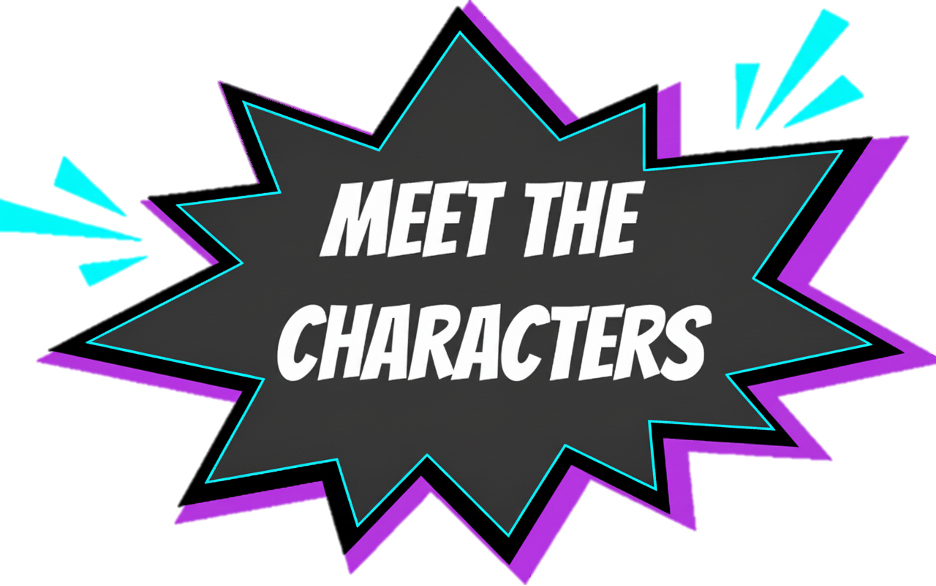
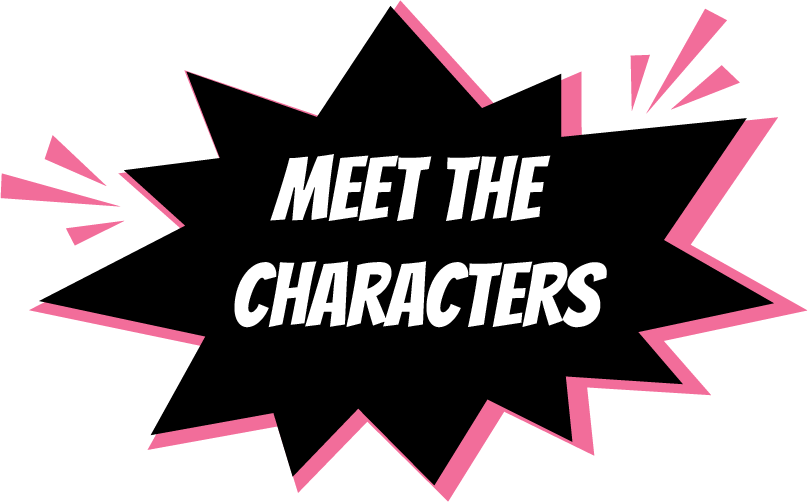
feat: adds animations and most dark mode buttons

diff --git a/src/components/Reader.vue b/src/components/Reader.vue
@@ -1,47 +1,29 @@
 <template>
-    <v-dialog v-model="dialog" @update-modelValue="(n: any) => dialog = n" fullscreen scrim="rgba(0, 0, 0, 0.8)" opacity="90">
-        <div 
-            class="dialog-content"
-            @mousemove="handleMouseMove"
-            @mouseleave="handleMouseLeave"
-        >
+    <v-dialog v-model="dialog" @update-modelValue="(n: any) => dialog = n" fullscreen scrim="rgba(0, 0, 0, 0.8)"
+        opacity="90">
+        <div class="dialog-content" @mousemove="handleMouseMove" @mouseleave="handleMouseLeave">
             <div class="d-flex justify-end">
-                <img 
-                    src="@/assets/Close Icon.png"
-                    class="close-button"
-                    :class="{ 'hidden': !showControls }"
-                    @click="dialog = false" 
-                />
+                <img v-if="theme.global.name.value == 'light'" src="@/assets/Close Icon.png" class="close-button" :class="{ 'hidden': !showControls }"
+                    @click="dialog = false" />
+                <img v-if="theme.global.name.value == 'dark'" src="@/assets/dark/Close Icon.png" class="close-button" :class="{ 'hidden': !showControls }"
+                    @click="dialog = false" />
             </div>
-            
+
             <!-- Move buttons outside carousel -->
-            <img 
-                v-if="currentSlide > 0"
-                src="@/assets/PrevButton.png" 
-                class="nav-button prev-button" 
-                :class="{ 'hidden': !showControls, 'visible': showControls }"
-                width="100" 
-                height="100"
-                @click="previousSlide" 
-            />
-            <img 
-                v-if="currentSlide < imageFiles.length - 1"
-                src="@/assets/NextButton.png" 
-                class="nav-button next-button" 
-                :class="{ 'hidden': !showControls, 'visible': showControls }"
-                width="100" 
-                height="100"
-                @click="nextSlide" 
-            />
-                
-            <v-carousel 
-                v-model="currentSlide"
-                height="auto" 
-                class="carousel" 
-                hide-delimiter-background 
-                hide-delimiters
-                :show-arrows="false"
-            >
+            <img v-if="currentSlide > 0 && theme.global.name.value === 'light'" src="@/assets/PrevButton.png"
+                class="nav-button prev-button" :class="{ 'hidden': !showControls, 'visible': showControls }" width="100"
+                height="100" @click="previousSlide" />
+            <img v-if="currentSlide > 0 && theme.global.name.value === 'dark'" src="@/assets/dark/PrevButton.png"
+                class="nav-button prev-button" :class="{ 'hidden': !showControls, 'visible': showControls }" width="85"
+                height="60" @click="previousSlide" />
+            <img v-if="currentSlide < imageFiles.length - 1 && theme.global.name.value == 'light'" src="@/assets/NextButton.png"
+                class="nav-button next-button" :class="{ 'hidden': !showControls, 'visible': showControls }" width="100"
+                height="100" @click="nextSlide" />
+            <img v-if="currentSlide < imageFiles.length - 1 && theme.global.name.value == 'dark'" src="@/assets/dark/NextButton.png"
+                class="nav-button next-button" :class="{ 'hidden': !showControls, 'visible': showControls }" width="85"
+                height="60" @click="nextSlide" />
+            <v-carousel v-model="currentSlide" height="auto" class="carousel" hide-delimiter-background hide-delimiters
+                :show-arrows="false">
                 <v-carousel-item v-for="image of imageFiles" :key="image">
                     <v-img :src="image" class="carousel-image" cover />
                 </v-carousel-item>
@@ -52,7 +34,9 @@
 
 <script setup lang="ts">
 import { ref, onMounted, onUnmounted } from 'vue'
+import { useTheme } from 'vuetify'
 
+const theme = useTheme()
 const dialog = defineModel('dialog', {
     type: Boolean,
     required: true
@@ -83,12 +67,12 @@ const previousSlide = () => {
 
 const showControlsTemporarily = () => {
     showControls.value = true
-    
+
     // Clear existing timeout
     if (hideTimeout) {
         clearTimeout(hideTimeout)
     }
-    
+
     // Set new timeout to hide controls after 2 seconds
     hideTimeout = setTimeout(() => {
         showControls.value = false
@@ -144,7 +128,7 @@ onUnmounted(() => {
     top: 40px;
     right: 40px;
     width: 100px;
-    height: 100px;
+    height: 80px;
     z-index: 2;
     cursor: pointer;
     transition: opacity 0.3s ease-in-out;
@@ -177,12 +161,14 @@ onUnmounted(() => {
 .prev-button.hidden {
     opacity: 0 !important;
     pointer-events: none;
-    transform: translateY(-50%) translateX(-120px) !important; /* Slide out to the left */
+    transform: translateY(-50%) translateX(-120px) !important;
+    /* Slide out to the left */
 }
 
 .prev-button.visible {
     opacity: 1;
-    transform: translateY(-50%) translateX(0) !important; /* Slide in from the left */
+    transform: translateY(-50%) translateX(0) !important;
+    /* Slide in from the left */
 }
 
 .next-button {
@@ -192,11 +178,13 @@ onUnmounted(() => {
 .next-button.hidden {
     opacity: 0 !important;
     pointer-events: none;
-    transform: translateY(-50%) translateX(120px) !important; /* Slide out to the right */
+    transform: translateY(-50%) translateX(120px) !important;
+    /* Slide out to the right */
 }
 
 .next-button.visible {
     opacity: 1;
-    transform: translateY(-50%) translateX(0) !important; /* Slide in from the right */
+    transform: translateY(-50%) translateX(0) !important;
+    /* Slide in from the right */
 }
 </style>

diff --git a/src/components/Preview.vue b/src/components/Preview.vue
@@ -3,11 +3,14 @@
         opacity="90">
         <div class="dialog-content" @mousemove="handleMouseMove" @mouseleave="handleMouseLeave">
             <div class="d-flex justify-end">
-                <img src="@/assets/Close Icon.png" class="close-button" :class="{ 'hidden': !showControls }"
+                <img v-if="theme.global.name.value == 'light'" src="@/assets/Close Icon.png" class="close-button" :class="{ 'hidden': !showControls }"
+                    @click="dialog = false" />
+                <img v-if="theme.global.name.value == 'dark'" src="@/assets/dark/Close Icon.png" class="close-button" :class="{ 'hidden': !showControls }"
                     @click="dialog = false" />
             </div>
             <v-card width="800" class="mx-auto my-12 pa-7" :elevation="12">
-                <v-card-title class="text-h3 text-center mb-5" style="font-family: 'Bangers';">{{ book.label }}</v-card-title>
+                <v-card-title class="text-h3 text-center mb-5" style="font-family: 'Bangers';">{{ book.label
+                    }}</v-card-title>
                 <div class="d-flex justify-center">
                     <div class="d-flex flex-column justify-center">
                         <img :src="book.cover" class="mb-4" height="400" contain />
@@ -15,8 +18,17 @@
                     <div class="ml-4">
                         <v-card-text class="book-description">{{ book.description }}</v-card-text>
                         <div class="mt-16 button-container">
-                            <img class="img-btn" src="@/assets/ReadTheComicBtn.png" height="130" @click="emits('open-reader')" />
-                            <img class="img-btn" src="@/assets/MeetTheCharactersBtn.png" height="130" @click="emits('open-characters')" />
+                            <img v-if="theme.global.name.value === 'light'" class="img-btn"
+                                src="@/assets/ReadTheComicBtn.png" height="130" @click="emits('open-reader')" />
+                            <img v-if="theme.global.name.value === 'dark'" class="img-btn"
+                                src="@/assets/dark/ReadTheComicBtn.png" height="130" @click="emits('open-reader')" />
+                            <img v-if="theme.global.name.value === 'light'" class="img-btn"
+                                src="@/assets/MeetTheCharactersBtn.png" height="130"
+                                @click="emits('open-characters')" />
+                            <img v-if="theme.global.name.value === 'dark'" class="img-btn"
+                                src="@/assets/dark/MeetTheCharactersBtn.png" height="130"
+                                @click="emits('open-characters')" />
+
                         </div>
                     </div>
                 </div>
@@ -27,6 +39,9 @@
 
 <script setup lang="ts">
 import { ref, onMounted, onUnmounted } from 'vue'
+import { useTheme } from 'vuetify';
+
+const theme = useTheme();
 
 const dialog = defineModel('dialog', {
     type: Boolean,
@@ -110,7 +125,7 @@ onUnmounted(() => {
     top: 40px;
     right: 40px;
     width: 100px;
-    height: 100px;
+    height: 80px;
     z-index: 2;
     cursor: pointer;
     transition: opacity 0.3s ease-in-out;
@@ -124,7 +139,8 @@ onUnmounted(() => {
 
 .img-btn:hover {
     transform: translateY(-4px) scale(1.02);
-    filter: drop-shadow(0 8px 16px rgba(0, 0, 0, 0.3)); /* Shadow follows SVG shape */
+    filter: drop-shadow(0 8px 16px rgba(0, 0, 0, 0.3));
+    /* Shadow follows SVG shape */
 }
 
 .close-button.hidden {

diff --git a/src/components/MeetCharacters.vue b/src/components/MeetCharacters.vue
@@ -3,17 +3,25 @@
         opacity="90">
         <div class="dialog-content" @mousemove="handleMouseMove" @mouseleave="handleMouseLeave">
             <div class="d-flex justify-end">
-                <img src="@/assets/Close Icon.png" class="close-button" :class="{ 'hidden': !showControls }"
+                <img v-if="theme.global.name.value == 'light'" src="@/assets/Close Icon.png" class="close-button" :class="{ 'hidden': !showControls }"
+                    @click="dialog = false" />
+                <img v-if="theme.global.name.value == 'dark'" src="@/assets/dark/Close Icon.png" class="close-button" :class="{ 'hidden': !showControls }"
                     @click="dialog = false" />
             </div>
 
             <!-- Move buttons outside carousel -->
-            <img v-if="currentSlide > 0" src="@/assets/PrevButton.png" class="nav-button prev-button"
-                :class="{ 'hidden': !showControls, 'visible': showControls }" width="100" height="100"
-                @click="previousSlide" />
-            <img v-if="currentSlide < imageFiles.length - 1" src="@/assets/NextButton.png"
+            <img v-if="currentSlide > 0 && theme.global.name.value === 'light'" src="@/assets/PrevButton.png"
+                class="nav-button prev-button" :class="{ 'hidden': !showControls, 'visible': showControls }" width="100"
+                height="100" @click="previousSlide" />
+            <img v-if="currentSlide > 0 && theme.global.name.value === 'dark'" src="@/assets/dark/PrevButton.png"
+                class="nav-button prev-button" :class="{ 'hidden': !showControls, 'visible': showControls }" width="85"
+                height="60" @click="previousSlide" />
+            <img v-if="currentSlide < imageFiles.length - 1 && theme.global.name.value == 'light'" src="@/assets/NextButton.png"
                 class="nav-button next-button" :class="{ 'hidden': !showControls, 'visible': showControls }" width="100"
                 height="100" @click="nextSlide" />
+            <img v-if="currentSlide < imageFiles.length - 1 && theme.global.name.value == 'dark'" src="@/assets/dark/NextButton.png"
+                class="nav-button next-button" :class="{ 'hidden': !showControls, 'visible': showControls }" width="85"
+                height="60" @click="nextSlide" />
 
             <v-carousel v-model="currentSlide" height="auto" hide-delimiter-background
                 :show-arrows="false" hide-delimiters>
@@ -44,6 +52,9 @@
 
 <script setup lang="ts">
 import { ref, onMounted, onUnmounted, watch } from 'vue'
+import { useTheme } from 'vuetify'
+
+const theme = useTheme()
 
 const dialog = defineModel('dialog', {
     type: Boolean,
@@ -166,7 +177,7 @@ onUnmounted(() => {
     top: 40px;
     right: 40px;
     width: 100px;
-    height: 100px;
+    height: 80px;
     z-index: 2;
     cursor: pointer;
     transition: opacity 0.3s ease-in-out;

diff --git a/src/components/AppBar.vue b/src/components/AppBar.vue
@@ -1,7 +1,8 @@
 <template>
   <div>
     <div style="z-index: 2001;">
-      <img @click="navigateHome" class="project-logo" src="@/assets/ProjectLogo.png"></img>
+      <img v-if="theme.global.name.value === 'light'" @click="navigateHome" class="project-logo" src="@/assets/ProjectLogo.png"></img>
+      <img v-if="theme.global.name.value === 'dark'" @click="navigateHome" class="project-logo" src="@/assets/dark/ProjectLogo.png"></img>
     </div>
     <v-app-bar :absolute="true" :flat="true" class="halftone-appbar" style="height: 120px">
       <template v-slot:image>
@@ -9,11 +10,12 @@
       </template>
     </v-app-bar>
     <div class="speech-bubble-container">
-      <img src="@/assets/12in_ComicSpeech_1.png" class="speech-bubble-bg" />
+      <img v-if="theme.global.name.value === 'light'" src="@/assets/12in_ComicSpeech_1.png" class="speech-bubble-bg" />
+      <img v-if="theme.global.name.value === 'dark'" src="@/assets/dark/12in_ComicSpeech_1.png" class="speech-bubble-bg" />
       <v-chip class="theme-button-overlay" @click="changeTheme" color="grey-darken-2" variant="text">
         <v-icon class="mr-1" :color="theme.global.name.value === 'light' ? 'grey' : 'black'" icon="$whiteBalanceSunny"
           size="18" />
-        <v-icon class="ml-1" :color="theme.global.name.value === 'dark' ? 'grey' : 'black'" icon="$weatherNight"
+        <v-icon class="ml-1" :color="theme.global.name.value === 'dark' ? 'white' : 'gray-lighten-2'" icon="$weatherNight"
           size="18" />
       </v-chip>
     </div>
